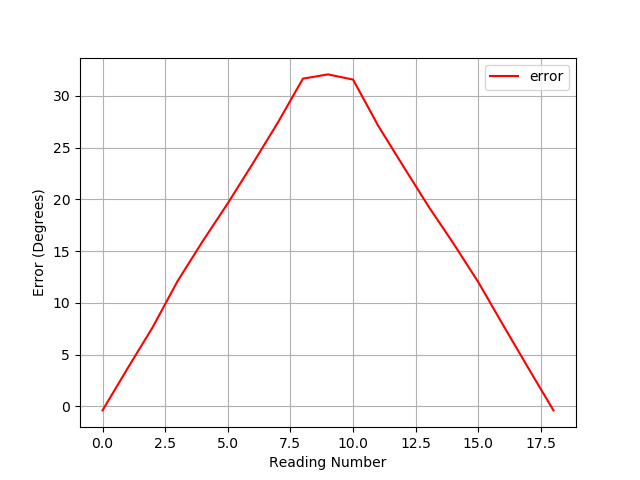
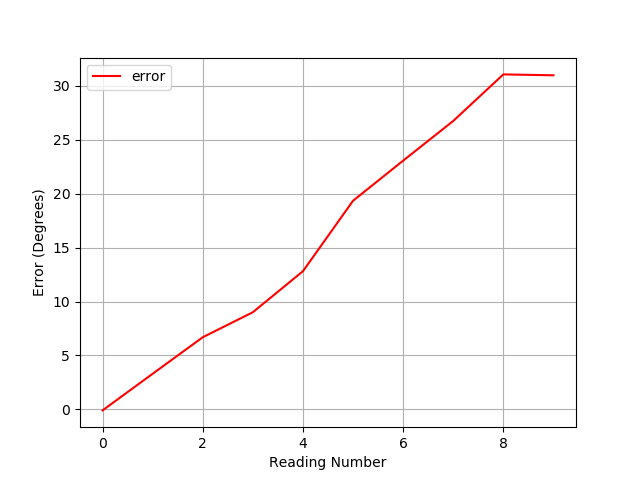
test encoder with resistance

diff --git a/ros_servo/src/Servo_Publisher.py b/ros_servo/src/Servo_Publisher.py
@@ -28,8 +28,6 @@ class Servo:
         self.pca = PCA9685(i2c)
         self.pca.frequency = 50
         self.servo = servo.Servo(self.pca.channels[0], min_pulse=500, max_pulse=2600, actuation_range=270)
-        self.servo.angle = 0
-        time.sleep(1)
 
         ros = False
 
@@ -88,8 +86,11 @@ class Servo:
     
     def filter_test(self, pub):
         test = [0, 30, 60, 90, 120, 150, 180, 210, 240, 270, 240, 210, 180, 150, 120, 90, 60, 30, 0]
-        # test = [270, 240, 210, 180, 150, 120, 90, 60, 30, 0, 30, 60, 90, 120, 150, 180, 210, 240, 270]
-        # test = np.linspace(0, 270, 3)
+        # test = [270, 240, 210, 180, 150, 120, 90, 60, 30, 0, 30, 60, 90, 120, 150, 180, 210, 240, 270] 
+        # test = [0, 30, 60, 90, 120, 150, 180, 210, 240, 270]
+
+        self.servo.angle = test[0]
+        time.sleep(2)
 
         prediction = []
 
@@ -97,8 +98,8 @@ class Servo:
 
         raw_angle_list = []
 
-        # exp_average_list = []
-        # alpha = 0.6
+        exp_average_list = []
+        alpha = 0.8
 
 
         print("{:>5}\t{:>5}\t{:>5}".format('raw', 'v', 'deg'))
@@ -113,16 +114,19 @@ class Servo:
                 voltage = self.chan0.voltage
                 angle = self.enc_2_deg(self.chan0.value, self.chan0.voltage)
 
+                # Adjusting for Error
+                angle = angle + 0.12*angle + 0.7
+
                 raw_angle_list.append(angle)
 
                 # Apply Exponential Moving Average filter
-                """if len(exp_average_list) == 0:
+                if len(exp_average_list) == 0:
                     exp_filtered_angle = angle
                 else:
                     exp_filtered_angle = alpha * angle + (1 - alpha) * exp_average_list[-1]
 
                 exp_average_list.append(exp_filtered_angle)
-                """
+                
                 
                 prediction.append(theta)
 
@@ -138,9 +142,9 @@ class Servo:
             error_list.append(error)
         
         # Plot the readings
-        """plt.plot(prediction, label='prediction', color='red')
+        plt.plot(prediction, label='prediction', color='red')
         plt.plot(raw_angle_list, label='raw', color='blue')
-        # plt.plot(exp_average_list, label='exp moving average', linestyle='-.', color='black')
+        plt.plot(exp_average_list, label='exp moving average', linestyle='-.', color='black')
         plt.xlabel('Reading Number')
         plt.ylabel('Angle (Degrees)')
         plt.legend()
@@ -148,8 +152,10 @@ class Servo:
         plt.yticks(range(0, 270 + 1, 30))
         plt.grid(True)
 
-        plt.savefig('Filtered_Data.png')"""
+        plt.savefig('Filtered_Data.png')
+        plt.close()
 
+        '''
         plt.plot(error_list, label='error', color='red')
         plt.xlabel('Reading Number')
         plt.ylabel('Error (Degrees)')
@@ -157,6 +163,29 @@ class Servo:
         plt.grid(True)
 
         plt.savefig('Error.png')
+        plt.close()
+
+        
+        # Fit a linear polynomial (degree=1)
+        coefficients = np.polyfit(test, error_list, 1)
+
+        # Create the best-fit line using the obtained coefficients
+        best_fit_line = np.poly1d(coefficients)
+
+        # Generate errors for the best-fit line
+        errors_fit = best_fit_line(test)
+
+        # Plot the data points and the best-fit line
+        plt.scatter(test, error_list, label='error')
+        plt.plot(test, errors_fit, label=f'Best Fit Line: error = {coefficients[0]:.2f} * angle + {coefficients[1]:.2f}', color='red')
+        plt.xlabel('Angle (degrees)')
+        plt.ylabel('Error (degrees)')
+        plt.legend()
+
+        plt.savefig('Error_Regression.png')
+        plt.close()
+        '''
+        
 
 if __name__ == '__main__':
     try:
